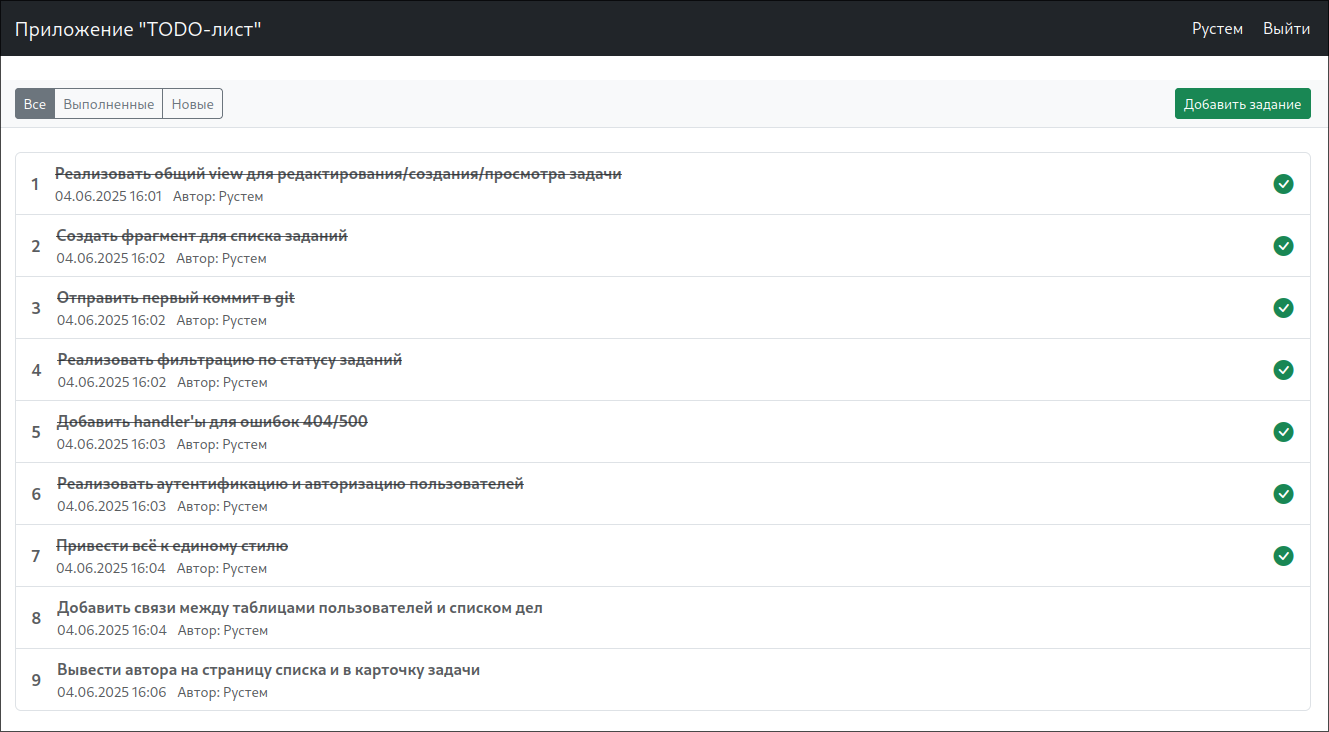
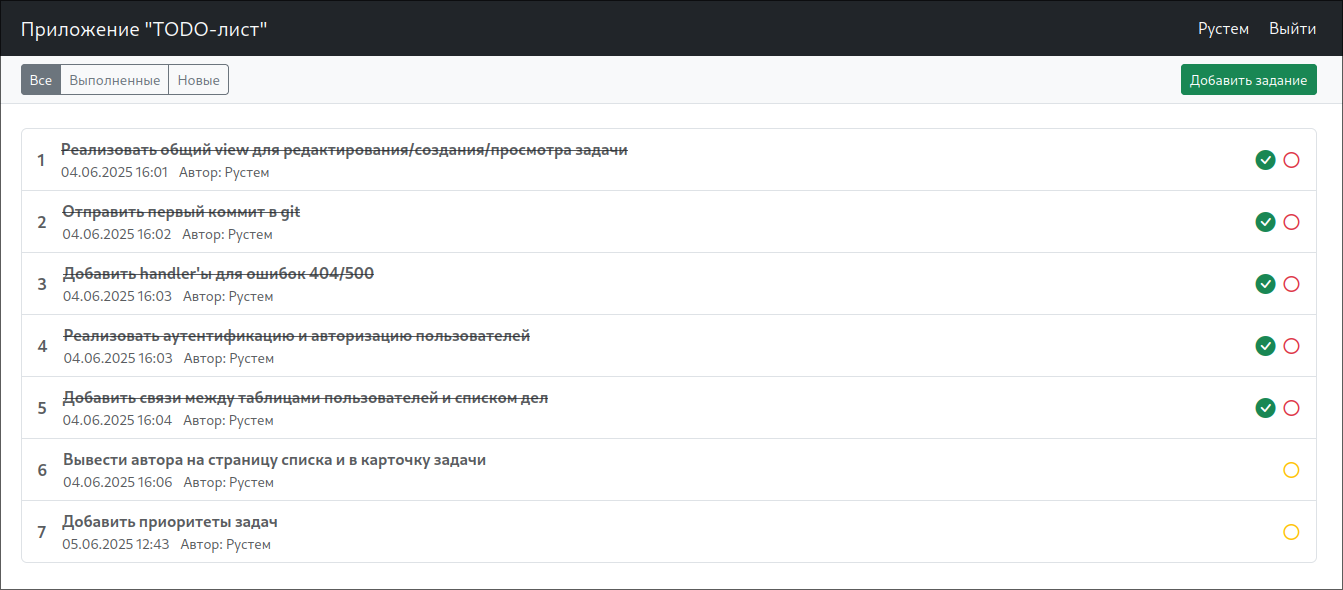
3. LazyInitializationexception [#331987]

diff --git a/src/main/resources/templates/tasks/view.html b/src/main/resources/templates/tasks/view.html
@@ -28,16 +28,34 @@
                     <textarea th:field="*{description}" class="form-control" rows="4" th:disabled="${!task.editing}"></textarea>
                 </div>
 
-                <div class="mt-4 d-flex justify-content-between align-items-end">
+                <!-- Блок информации (приоритет, статус, автор) -->
+                <div class="mt-4 d-flex justify-content-between align-items-start">
                     <div>
-                        <a th:href="@{/index}" class="btn btn-secondary">Назад</a>
+                        <label><strong>Приоритет:</strong></label>
+                        <div th:if="${task.editing}">
 
-                        <button type="submit" class="btn btn-success" th:if="${task.editing}">Сохранить</button>
+                            <label style="color: orange;">
+                                <input type="radio" th:field="*{priorityId}" th:value="2" />
+                                Нормально
+                            </label>
 
-                        <a th:href="@{'/tasks/' + ${task.id} + '/edit'}" class="btn btn-primary" th:if="${!task.editing}">Редактировать</a>
+                            <label style="color: red; margin-right: 1em;">
+                                <input type="radio" th:field="*{priorityId}" th:value="1" />
+                                Срочно
+                            </label>
+
+                        </div>
+
+                        <div th:if="${!task.editing}">
+            <span th:switch="${task.priorityId}">
+                <span th:case="1" style="color: red;">Срочно</span>
+                <span th:case="2" style="color: orange;">Нормально</span>
+                <span th:case="*">Не задан</span>
+            </span>
+                        </div>
                     </div>
 
-                    <div class="text-end" th:if="${!task.editing}">
+                    <div class="text-end">
                         <div>
                             <strong>Статус:</strong>
                             <span th:text="${task.done} ? 'Выполнено' : 'Новая'">Статус</span>
@@ -46,13 +64,22 @@
                         <div th:if="${task.user != null and task.user.name != null}">
                             <small class="text-muted" th:text="'Автор: ' + ${task.user.name}">Автор</small>
                         </div>
+                    </div>
+                </div>
 
-                        <div class="mt-2">
-                            <a th:href="@{'/tasks/' + ${task.id} + '/done'}"
-                               class="btn btn-outline-success me-2"
-                               th:if="${!task.done}">Выполнено</a>
-                            <a th:href="@{'/tasks/' + ${task.id} + '/delete'}" class="btn btn-outline-danger">Удалить</a>
-                        </div>
+                <!-- Блок кнопок -->
+                <div class="mt-3 d-flex justify-content-between align-items-center">
+                    <a th:href="@{/index}" class="btn btn-secondary">Назад</a>
+
+                    <div>
+                        <button type="submit" class="btn btn-success" th:if="${task.editing}">Сохранить</button>
+                        <a th:href="@{'/tasks/' + ${task.id} + '/edit'}" class="btn btn-primary" th:if="${!task.editing}">Редактировать</a>
+                        <a th:href="@{'/tasks/' + ${task.id} + '/done'}"
+                           class="btn btn-outline-success me-2"
+                           th:if="${!task.editing and !task.done}">Выполнено</a>
+                        <a th:href="@{'/tasks/' + ${task.id} + '/delete'}"
+                           class="btn btn-outline-danger"
+                           th:if="${!task.editing}">Удалить</a>
                     </div>
                 </div>
 

diff --git a/src/main/resources/templates/fragments/tasklist.html b/src/main/resources/templates/fragments/tasklist.html
@@ -23,6 +23,14 @@
             <div th:if="${task.done}" class="text-success fs-5">
                 <i class="bi bi-check-circle-fill"></i>
             </div>
+
+            <i class="fa-regular fa-circle ms-2"
+               th:classappend="${task.priority == null} ? 'text-secondary' :
+                   (${task.priority.name == 'normal'} ? 'text-warning' :
+                   (${task.priority.name == 'urgently'} ? 'text-danger' : 'text-secondary'))"
+               th:title="${task.priority != null ? task.priority.name : 'Нет приоритета'}">
+            </i>
+
         </a>
     </div>
 </div>

diff --git a/src/main/resources/templates/fragments/header.html b/src/main/resources/templates/fragments/header.html
@@ -12,5 +12,7 @@
     <script src="https://code.jquery.com/jquery-3.4.1.slim.min.js"
             integrity="sha384-J6qa4849blE2+poT4WnyKhv5vZF5SrPo0iEjwBvKU7imGFAV0wwj1yYfoRSJoZ+n" crossorigin="anonymous"></script>
 
+    <link rel="stylesheet" href="https://cdnjs.cloudflare.com/ajax/libs/font-awesome/6.5.0/css/all.min.css">
+
     <title th:utext="${pageTitle}">TODO-лист</title>
 </head>

diff --git a/src/main/java/ru/job4j/todo/service/SimpleTaskService.java b/src/main/java/ru/job4j/todo/service/SimpleTaskService.java
@@ -4,6 +4,7 @@ import lombok.AllArgsConstructor;
 import org.springframework.stereotype.Service;
 import ru.job4j.todo.dto.TaskDto;
 import ru.job4j.todo.model.Task;
+import ru.job4j.todo.store.PriorityStore;
 import ru.job4j.todo.store.TaskStore;
 
 import java.util.List;
@@ -14,6 +15,7 @@ import java.util.NoSuchElementException;
 public class SimpleTaskService implements TaskService {
 
     private final TaskStore simpleTaskStore;
+    private final PriorityStore simplePriorityStore;
 
     @Override
     public Task save(TaskDto taskDto) {
@@ -60,6 +62,9 @@ public class SimpleTaskService implements TaskService {
         task.setCreated(dto.getCreated());
         task.setDone(dto.isDone());
         task.setUser(dto.getUser());
+        task.setPriority(
+                simplePriorityStore.findById(dto.getPriorityId()).orElseThrow()
+        );
         return task;
     }
 
@@ -72,6 +77,7 @@ public class SimpleTaskService implements TaskService {
         dto.setDone(task.isDone());
         dto.setEditing(editing);
         dto.setUser(task.getUser());
+        dto.setPriorityId(task.getPriority().getId());
         return dto;
     }
 }

diff --git a/src/main/java/ru/job4j/todo/store/SimpleTaskStore.java b/src/main/java/ru/job4j/todo/store/SimpleTaskStore.java
@@ -35,13 +35,13 @@ public class SimpleTaskStore implements TaskStore {
 
     @Override
     public List<Task> findAll() {
-        return crudStore.query("from Task order by id", Task.class);
+        return crudStore.query("FROM Task t JOIN FETCH t.priority ORDER BY t.id", Task.class);
     }
 
     @Override
     public List<Task> findByStatus(boolean done) {
         return crudStore.query(
-                "from Task where done=:done order by id", Task.class,
+                "FROM Task t JOIN FETCH t.priority WHERE t.done=:done ORDER BY t.id", Task.class,
                 Map.of("done", done)
         );
     }
@@ -49,8 +49,8 @@ public class SimpleTaskStore implements TaskStore {
     @Override
     public Optional<Task> findById(int id) {
         return crudStore.optional(
-                "from Task where id=:fId", Task.class,
-                Map.of("fId", id)
+                "FROM Task t JOIN FETCH t.priority WHERE t.id=:id", Task.class,
+                Map.of("id", id)
         );
     }
 

diff --git a/src/main/java/ru/job4j/todo/model/Task.java b/src/main/java/ru/job4j/todo/model/Task.java
@@ -3,11 +3,13 @@ package ru.job4j.todo.model;
 import jakarta.persistence.*;
 import lombok.AllArgsConstructor;
 import lombok.Data;
+import lombok.EqualsAndHashCode;
 import lombok.NoArgsConstructor;
 
 import java.time.LocalDateTime;
 
 @Data
+@EqualsAndHashCode(onlyExplicitlyIncluded = true)
 @AllArgsConstructor
 @NoArgsConstructor
 @Entity
@@ -15,6 +17,7 @@ import java.time.LocalDateTime;
 public class Task {
     @Id
     @GeneratedValue(strategy = GenerationType.IDENTITY)
+    @EqualsAndHashCode.Include
     private int id;
     private String title;
     private String description;
@@ -24,4 +27,8 @@ public class Task {
     @ManyToOne
     @JoinColumn(name = "user_id")
     private User user;
+
+    @ManyToOne(fetch = FetchType.LAZY)
+    @JoinColumn(name = "priority_id")
+    private Priority priority;
 }

diff --git a/src/main/java/ru/job4j/todo/store/SimplePriorityStore.java b/src/main/java/ru/job4j/todo/store/SimplePriorityStore.java
@@ -1,0 +1,23 @@
+package ru.job4j.todo.store;
+
+import lombok.AllArgsConstructor;
+import org.springframework.stereotype.Repository;
+import ru.job4j.todo.model.Priority;
+
+import java.util.Map;
+import java.util.Optional;
+
+@AllArgsConstructor
+@Repository
+public class SimplePriorityStore implements PriorityStore {
+
+    private final CrudStore crudStore;
+
+    @Override
+    public Optional<Priority> findById(int id) {
+        return crudStore.optional(
+                "FROM Priority WHERE id=:id", Priority.class,
+                Map.of("id", id)
+        );
+    }
+}

diff --git a/src/main/java/ru/job4j/todo/model/Priority.java b/src/main/java/ru/job4j/todo/model/Priority.java
@@ -1,0 +1,21 @@
+package ru.job4j.todo.model;
+
+import jakarta.persistence.*;
+import lombok.Data;
+import lombok.EqualsAndHashCode;
+
+@Data
+@EqualsAndHashCode(onlyExplicitlyIncluded = true)
+@Entity
+@Table(name = "priorities")
+public class Priority {
+
+    @Id
+    @GeneratedValue(strategy = GenerationType.IDENTITY)
+    @EqualsAndHashCode.Include
+    private int id;
+
+    private String name;
+
+    private int position;
+}

diff --git a/src/main/java/ru/job4j/todo/controller/TaskController.java b/src/main/java/ru/job4j/todo/controller/TaskController.java
@@ -45,6 +45,7 @@ public class TaskController {
         taskDto.setEditing(true);
         taskDto.setCreated(LocalDateTime.now());
         taskDto.setUser(user);
+        taskDto.setPriorityId(2);
         model.addAttribute("task", taskDto);
         return "tasks/view";
     }

diff --git a/src/main/java/ru/job4j/todo/store/PriorityStore.java b/src/main/java/ru/job4j/todo/store/PriorityStore.java
@@ -1,0 +1,11 @@
+package ru.job4j.todo.store;
+
+import ru.job4j.todo.model.Priority;
+
+import java.util.Optional;
+
+public interface PriorityStore {
+
+    Optional<Priority> findById(int id);
+
+}

diff --git a/src/main/java/ru/job4j/todo/dto/TaskDto.java b/src/main/java/ru/job4j/todo/dto/TaskDto.java
@@ -18,4 +18,5 @@ public class TaskDto {
     private boolean done;
     private boolean editing;
     private User user;
+    private int priorityId;
 }

diff --git a/README.md b/README.md
@@ -42,7 +42,9 @@ mvn spring-boot:run
 ## Интерфейс
 ### Список задач
 ![tasklist.png](img/tasklist.png)
-### Карточка задачи
-![task.png](img/task.png)
+### Режим создания/редактирования
+![new.png](img/new.png)
+### Режим просмотра
+![view.png](img/view.png)
 ### Форма входа
 ![login.png](img/login.png)
